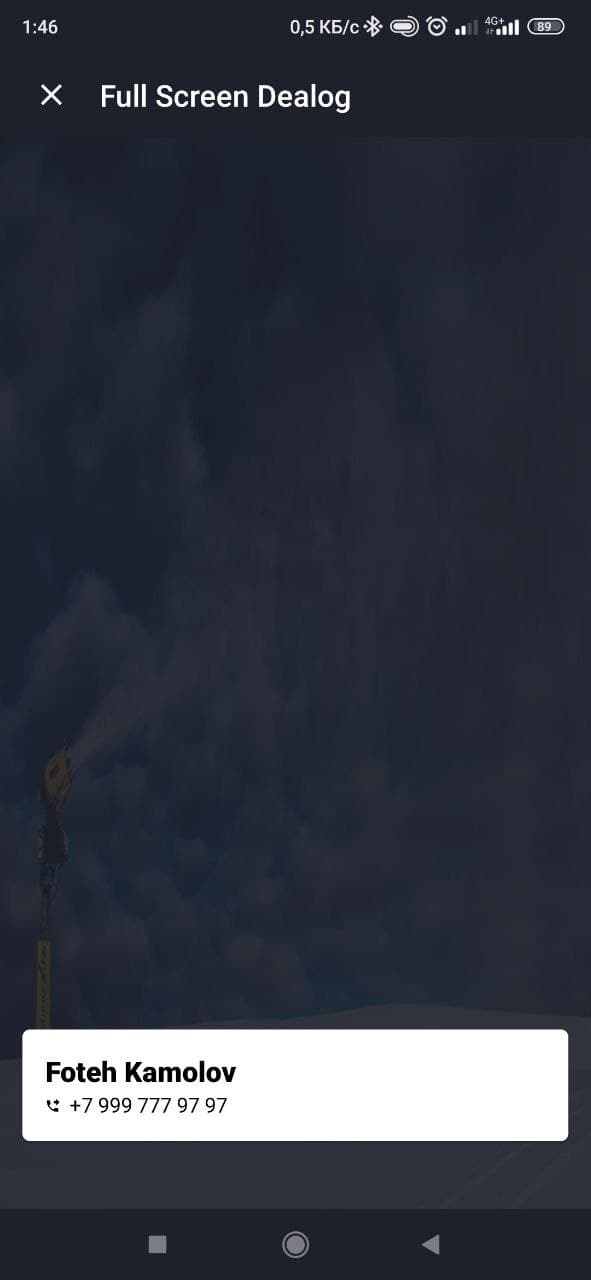
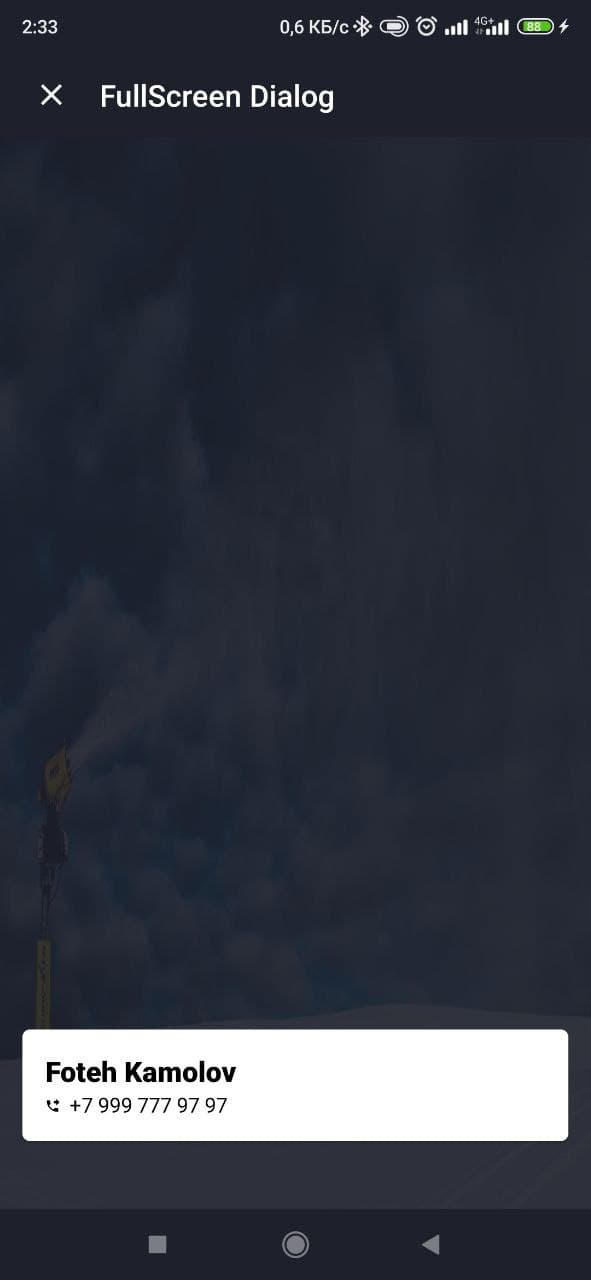
FullScreen custom dialog

Changed region(s): [[0.4569, 0.0, 0.9746, 0.0312], [0.2437, 0.0625, 0.6091, 0.0938], [0.0305, 0.0, 0.0914, 0.0312]]

diff --git a/app/src/main/java/com/fotehkamolov96/fullscreendialog/ExampleDialog.java b/app/src/main/java/com/fotehkamolov96/fullscreendialog/ExampleDialog.java
@@ -52,7 +52,7 @@ public class ExampleDialog extends DialogFragment {
     public void onViewCreated(View view, Bundle savedInstanceState) {
         super.onViewCreated(view, savedInstanceState);
         toolbar.setNavigationOnClickListener(v -> dismiss());
-        toolbar.setTitle("Full Screen Dealog");
+        toolbar.setTitle("FullScreen Dialog");
     }
 
 }
